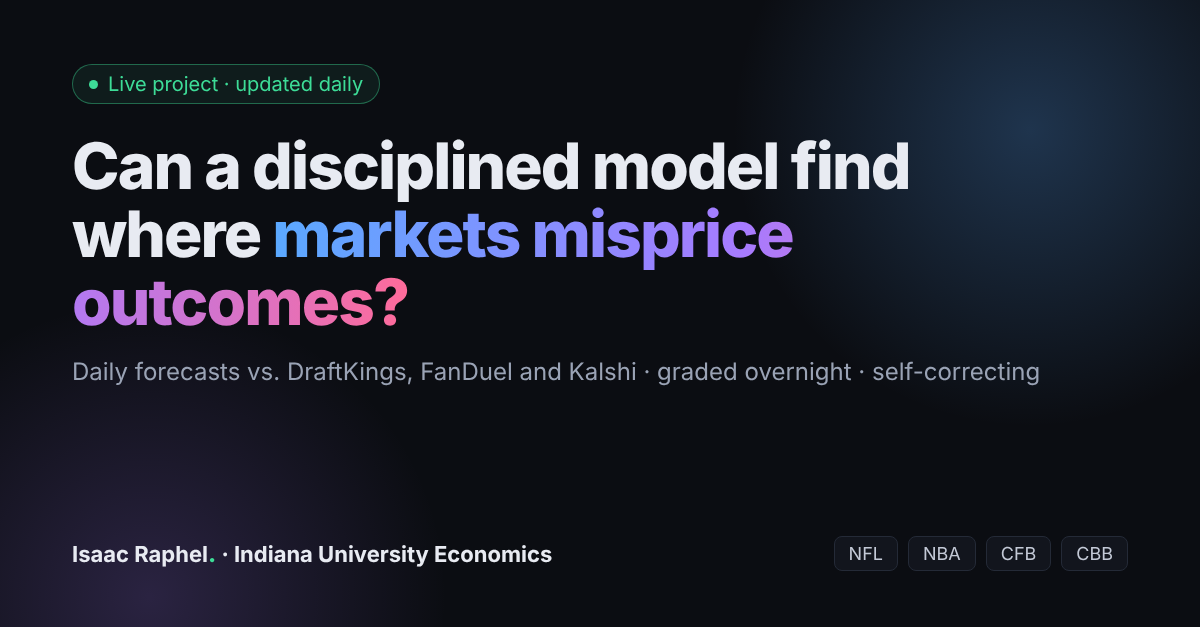
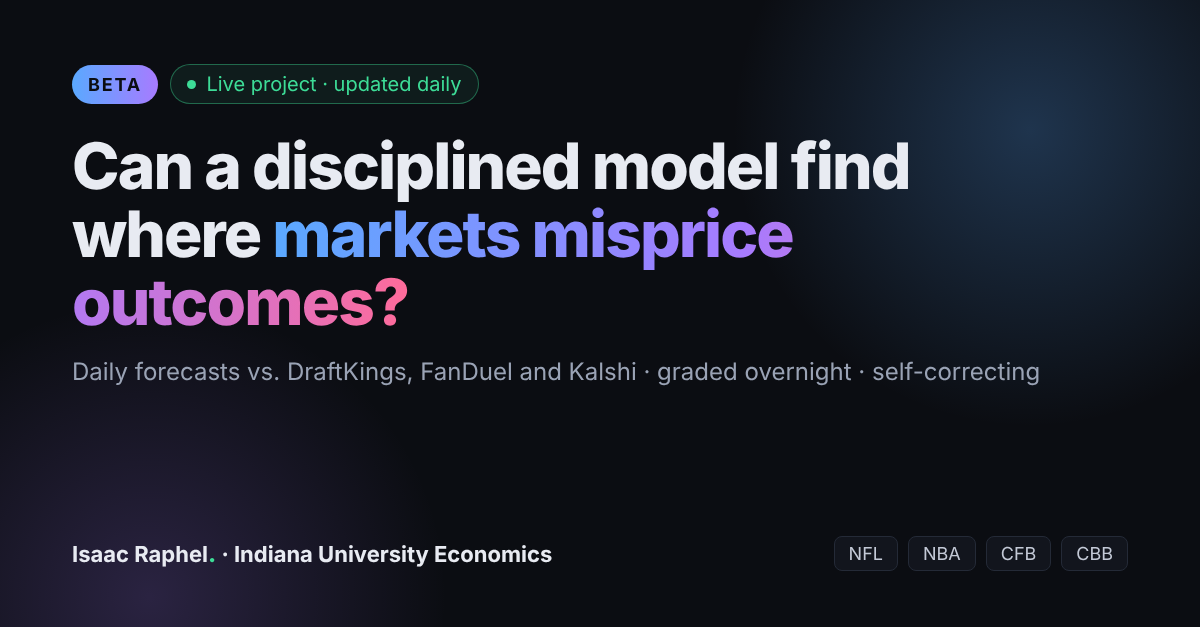
Mark project as Beta

Changed region(s): [[0.0617, 0.0909, 0.4008, 0.1818]]

diff --git a/index.html b/index.html
@@ -3,7 +3,7 @@
 <head>
 <meta charset="utf-8">
 <meta name="viewport" content="width=device-width, initial-scale=1">
-<title>Isaac Raphel | Sports Forecasting Model</title>
+<title>Isaac Raphel | Sports Forecasting Model (Beta)</title>
 <meta name="description" content="An economics project testing how efficiently sports markets price games, using daily data collection, a prediction model and a self-correcting feedback loop.">
 <meta property="og:title" content="Can a disciplined model find where markets misprice outcomes?">
 <meta property="og:description" content="Isaac Raphel's daily sports forecasting model: predictions benchmarked against DraftKings, FanDuel and Kalshi, graded overnight, with a self-correcting lessons system.">
@@ -61,6 +61,8 @@ nav .wrap{display:flex;align-items:center;justify-content:space-between;height:6
 header.hero{padding:88px 0 64px;position:relative;overflow:hidden}
 .hero:before{content:"";position:absolute;inset:-40% -10% auto auto;width:640px;height:640px;background:radial-gradient(circle,rgba(90,169,255,.18),transparent 60%);pointer-events:none}
 .hero:after{content:"";position:absolute;left:-200px;bottom:-300px;width:600px;height:600px;background:radial-gradient(circle,rgba(167,123,255,.14),transparent 60%);pointer-events:none}
+.tagrow{display:flex;gap:10px;align-items:center;flex-wrap:wrap;margin-bottom:22px}.tagrow .eyebrow{margin-bottom:0}
+.beta{font-size:12px;font-weight:700;letter-spacing:.1em;text-transform:uppercase;color:#0b0d12;background:linear-gradient(90deg,var(--blue),var(--purple));padding:6px 11px;border-radius:999px}
 .eyebrow{display:inline-flex;gap:8px;align-items:center;font-size:13px;color:var(--green);border:1px solid rgba(61,220,151,.35);background:rgba(61,220,151,.08);padding:5px 12px;border-radius:999px;margin-bottom:22px}
 .dot{width:7px;height:7px;border-radius:50%;background:var(--green);box-shadow:0 0 10px var(--green)}
 h1{font-size:clamp(34px,6vw,58px);line-height:1.08;letter-spacing:-.03em;font-weight:800;max-width:820px}
@@ -147,7 +149,7 @@ footer .wrap{display:flex;justify-content:space-between;gap:16px;flex-wrap:wrap}
 </div></nav>
 
 <header class="hero"><div class="wrap">
-  <div class="eyebrow"><span class="dot"></span> Live project · updated daily</div>
+  <div class="tagrow"><span class="beta">Beta</span><div class="eyebrow"><span class="dot"></span> Live project · updated daily</div></div>
   <h1>Can a disciplined model find where <span class="grad">markets misprice outcomes?</span></h1>
   <p class="lede">A forecasting system that collects market data every day, makes its own predictions, grades itself against the market's final price, and only keeps the changes that prove themselves over time.</p>
   <div class="cta">

diff --git a/model.html b/model.html
@@ -24,6 +24,7 @@ nav .wrap{display:flex;align-items:center;justify-content:space-between;height:6
 .navlinks{display:flex;gap:22px;font-size:14px;color:var(--muted)}.navlinks a{text-decoration:none}.navlinks a:hover,.navlinks a.on{color:var(--text)}
 
 header{padding:44px 0 8px}
+.beta{display:inline-block;vertical-align:middle;font-size:12px;font-weight:700;letter-spacing:.1em;text-transform:uppercase;color:#0b0d12;background:linear-gradient(90deg,var(--blue),var(--purple));padding:5px 11px;border-radius:999px;position:relative;top:-4px}
 h1{font-size:clamp(28px,4.5vw,40px);letter-spacing:-.025em;font-weight:800}
 .sub{color:var(--muted);margin-top:8px;max-width:760px}
 .updated{font-size:13px;color:var(--dim);margin-top:8px}
@@ -105,7 +106,7 @@ footer .wrap{display:flex;justify-content:space-between;gap:16px;flex-wrap:wrap}
 
 <main class="wrap">
 <header>
-  <h1>Live Model</h1>
+  <h1>Live Model <span class="beta">Beta</span></h1>
   <p class="sub">Every game the model forecasts, next to DraftKings, FanDuel and Kalshi prices. The picked side is highlighted in green. Results are graded overnight, with notes on what actually happened.</p>
   <p class="updated" id="updated"></p>
 </header>
